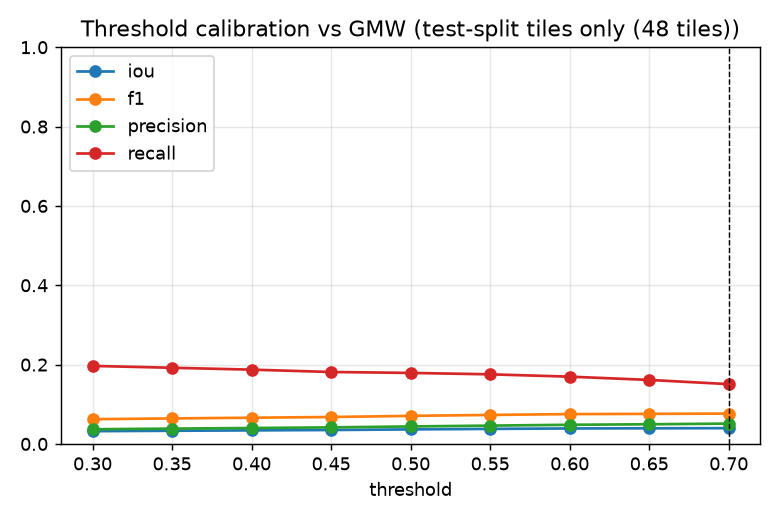
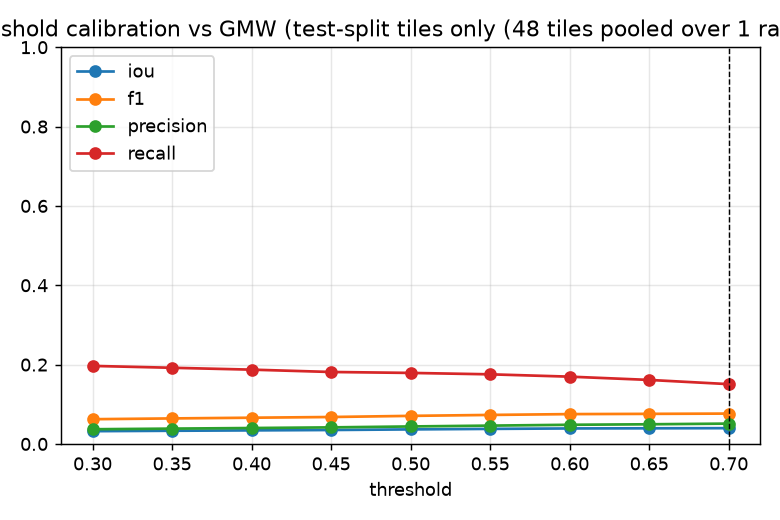
Threshold sweep pools several study areas; greedy S2 granule coverage

Changed region(s): [[0.0, 0.0308, 1.0, 0.0923]]

diff --git a/scripts/threshold_sweep.py b/scripts/threshold_sweep.py
@@ -32,8 +32,14 @@ from ecoconnect.geospatial.raster_processing.io import RasterMeta, pixel_area_ha
 def test_mask_from_split(prob_meta: RasterMeta, tiles_dir: Path, test_ids: list[str]) -> np.ndarray:
     """Boolean (H, W) mask of pixels covered by TEST tiles (so the sweep is held-out)."""
     m = np.zeros((prob_meta.height, prob_meta.width), bool)
+    rb = prob_meta.bounds
     for tid in test_ids:
         with rasterio.open(tiles_dir / f"{tid}.tif") as t:
+            if t.crs != prob_meta.crs:
+                continue                                     # tile belongs to another study area
+            tb = t.bounds
+            if tb.right <= rb[0] or tb.left >= rb[2] or tb.top <= rb[1] or tb.bottom >= rb[3]:
+                continue                                     # outside this raster
             win = from_bounds(*t.bounds, transform=prob_meta.transform).round_offsets().round_lengths()
         r0, c0 = max(int(win.row_off), 0), max(int(win.col_off), 0)
         r1, c1 = min(r0 + int(win.height), m.shape[0]), min(c0 + int(win.width), m.shape[1])
@@ -43,7 +49,8 @@ def test_mask_from_split(prob_meta: RasterMeta, tiles_dir: Path, test_ids: list[
 
 def main() -> int:
     ap = argparse.ArgumentParser(description=__doc__, formatter_class=argparse.RawDescriptionHelpFormatter)
-    ap.add_argument("--prob", required=True); ap.add_argument("--label", required=True)
+    ap.add_argument("--prob", required=True, action="append", help="probability raster (repeat with --label to pool several areas)")
+    ap.add_argument("--label", required=True, action="append", help="aligned label raster, one per --prob")
     ap.add_argument("--experiment", required=True, help="experiment dir (for output + split files)")
     ap.add_argument("--dataset-root", default=None, help="canonical dataset root; default from experiment.json")
     ap.add_argument("--thresholds", default="0.30,0.35,0.40,0.45,0.50,0.55,0.60,0.65,0.70")
@@ -53,44 +60,54 @@ def main() -> int:
     a = ap.parse_args()
     exp = Path(a.experiment)
 
-    with rasterio.open(a.prob) as s:
-        prob = s.read(1).astype(np.float32)
-        meta = RasterMeta(s.crs, s.transform, s.width, s.height, s.nodata, 1, "float32")
-    with rasterio.open(a.label) as s:
-        if (s.width, s.height) != (meta.width, meta.height):
-            sys.exit("label raster must be on the probability grid (use the aligned label from acquisition)")
-        label = s.read(1)
-    valid = np.isfinite(prob) & (label != 255)
-
+    if len(a.prob) != len(a.label):
+        sys.exit("give one --label per --prob")
     ds_root = a.dataset_root
     if not ds_root and (exp / "experiment.json").exists():
         ds_root = json.loads((exp / "experiment.json").read_text())["dataset"]["root"]
-    scope = "all labelled pixels"
+    test_ids = []
     if not a.all_pixels and ds_root and (Path(ds_root) / "splits" / "test.txt").exists():
-        ids = [l.strip() for l in (Path(ds_root) / "splits" / "test.txt").read_text().splitlines() if l.strip()]
-        valid &= test_mask_from_split(meta, Path(ds_root) / "tiles" / "images", ids)
-        scope = f"test-split tiles only ({len(ids)} tiles)"
+        test_ids = [l.strip() for l in (Path(ds_root) / "splits" / "test.txt").read_text().splitlines() if l.strip()]
+    scope = f"test-split tiles only ({len(test_ids)} tiles pooled over {len(a.prob)} raster(s))" if test_ids else "all labelled pixels"
+    thresholds = [float(x) for x in a.thresholds.split(",")]
 
-    area = np.broadcast_to(pixel_area_ha(meta)[:, None], prob.shape)
-    ref = label[valid] == 1
+    # pooled pixel counts over all rasters
+    agg = {t: {"tp": 0, "fp": 0, "fn": 0, "n_components": 0, "n_patches_ge_mmu": 0, "habitat_area_ha": 0.0} for t in thresholds}
+    for prob_path, label_path in zip(a.prob, a.label):
+        with rasterio.open(prob_path) as s:
+            prob = s.read(1).astype(np.float32)
+            meta = RasterMeta(s.crs, s.transform, s.width, s.height, s.nodata, 1, "float32")
+        with rasterio.open(label_path) as s:
+            if (s.width, s.height) != (meta.width, meta.height):
+                sys.exit(f"{label_path} is not on the grid of {prob_path}")
+            label = s.read(1)
+        valid = np.isfinite(prob) & (label != 255)
+        if test_ids:
+            # only the test tiles that belong to this raster (their bounds fall inside it)
+            valid &= test_mask_from_split(meta, Path(ds_root) / "tiles" / "images", test_ids)
+        area = np.broadcast_to(pixel_area_ha(meta)[:, None], prob.shape)
+        ref = label[valid] == 1
+        for t in thresholds:
+            pred = prob[valid] >= t
+            agg[t]["tp"] += int((pred & ref).sum()); agg[t]["fp"] += int((pred & ~ref).sum()); agg[t]["fn"] += int((~pred & ref).sum())
+            binary = np.isfinite(prob) & (prob >= t)
+            lab, n = ndimage.label(binary, structure=np.ones((3, 3)))
+            areas = ndimage.sum(area, lab, np.arange(1, n + 1)) if n else np.array([])
+            agg[t]["n_components"] += int(n); agg[t]["n_patches_ge_mmu"] += int((areas >= a.mmu_ha).sum())
+            agg[t]["habitat_area_ha"] += float(areas.sum())
     rows = []
-    for t in [float(x) for x in a.thresholds.split(",")]:
-        pred = prob[valid] >= t
-        tp = int((pred & ref).sum()); fp = int((pred & ~ref).sum()); fn = int((~pred & ref).sum())
+    for t in thresholds:
+        tp, fp, fn = agg[t]["tp"], agg[t]["fp"], agg[t]["fn"]
         prec = tp / (tp + fp) if tp + fp else 0.0
         rec = tp / (tp + fn) if tp + fn else 0.0
         f1 = 2 * prec * rec / (prec + rec) if prec + rec else 0.0
         iou = tp / (tp + fp + fn) if tp + fp + fn else 0.0
-        binary = np.isfinite(prob) & (prob >= t)
-        lab, n = ndimage.label(binary, structure=np.ones((3, 3)))
-        areas = ndimage.sum(area, lab, np.arange(1, n + 1)) if n else np.array([])
         rows.append({"threshold": t, "iou": iou, "dice": f1, "precision": prec, "recall": rec, "f1": f1,
-                     "tp": tp, "fp": fp, "fn": fn, "n_components": int(n),
-                     "n_patches_ge_mmu": int((areas >= a.mmu_ha).sum()), "habitat_area_ha": float(areas.sum())})
+                     "tp": tp, "fp": fp, "fn": fn, **{k: agg[t][k] for k in ("n_components", "n_patches_ge_mmu", "habitat_area_ha")}})
     best = max(rows, key=lambda r: r[a.criterion])
     out = {"scope": scope, "reference": "Global Mangrove Watch v3 (weak label) - agreement, not field-truth accuracy",
            "criterion": a.criterion, "selected_threshold": best["threshold"], "mmu_ha": a.mmu_ha,
-           "probability_raster": str(Path(a.prob).resolve()), "rows": rows}
+           "probability_rasters": [str(Path(p).resolve()) for p in a.prob], "rows": rows}
     (exp / "threshold_calibration.json").write_text(json.dumps(out, indent=1))
     with (exp / "threshold_calibration.csv").open("w", newline="") as f:
         w = csv.DictWriter(f, fieldnames=list(rows[0].keys())); w.writeheader(); w.writerows(rows)

diff --git a/ecoconnect/gee/stac_acquire.py b/ecoconnect/gee/stac_acquire.py
@@ -141,6 +141,19 @@ def sentinel2_composite(aoi: AOI, grid: TargetGrid, cfg: dict, acq: dict, log=pr
         it["_overlap"] = ov
         tile = it["properties"].get("s2:mgrs_tile") or it["properties"].get("grid:code") or it["id"].split("_")[1]
         by_tile.setdefault(tile, []).append(it)
+    # greedy coverage: add granules by decreasing AOI overlap until >= 98 % of the AOI is covered,
+    # so a sliver granule is only fetched when it is actually needed
+    from shapely.ops import unary_union as _union
+    covered, needed = None, []
+    for tile, its in sorted(by_tile.items(), key=lambda kv: -max(i["_overlap"] for i in kv[1])):
+        geom = _union([_shape(i["geometry"]) for i in its]).intersection(aoi_geom)
+        new_cov = geom if covered is None else covered.union(geom)
+        if covered is not None and (new_cov.area - covered.area) / aoi_geom.area < 0.01:
+            continue
+        covered, needed = new_cov, needed + [tile]
+        if covered.area / aoi_geom.area >= 0.98:
+            break
+    by_tile = {t: by_tile[t] for t in needed}
     chosen = []
     for tile, its in by_tile.items():
         best = max(i["_overlap"] for i in its)
